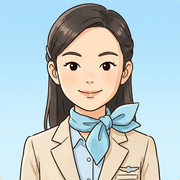
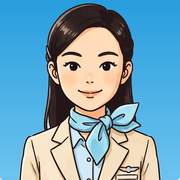
Add files via upload

diff --git a/index.html b/index.html
@@ -12,11 +12,11 @@
 <meta name="apple-mobile-web-app-status-bar-style" content="default">
 <meta name="application-name" content="날아라 아유 보드">
 <title>날아라 아유 보드</title>
-<link rel="manifest" href="./manifest.webmanifest?v=r4">
-<link rel="icon" href="./favicon-48-r4.png" sizes="48x48" type="image/png">
-<link rel="apple-touch-icon" sizes="180x180" href="./apple-touch-icon-r4.png">
-<link rel="apple-touch-icon" href="./apple-touch-icon-r4.png">
-<link rel="apple-touch-icon-precomposed" href="./apple-touch-icon-r4.png">
+<link rel="manifest" href="./manifest.webmanifest?v=r5">
+<link rel="icon" href="./favicon-48-r5.png" sizes="48x48" type="image/png">
+<link rel="apple-touch-icon" sizes="180x180" href="./apple-touch-icon-r5.png">
+<link rel="apple-touch-icon" href="./apple-touch-icon-r5.png">
+<link rel="apple-touch-icon-precomposed" href="./apple-touch-icon-r5.png">
 <style>
 /* 주아 (Jua) · 카카오 작은글씨 — SIL Open Font License 1.1. FONT-LICENSE.txt 참고.
    앱 안의 파일을 먼저 쓰고, 없으면 CDN 으로 넘어간다. */
@@ -582,7 +582,7 @@ footer{font-size:var(--fs-xs);color:var(--ink-3);text-align:center;line-height:1
   <footer>
     달력에서 날짜를 누르면 그날 학습을 보고 고칠 수 있어요.<br>
     기록은 이 기기에 저장돼요. 가끔 백업 파일로 내보내 두세요.<br>
-    <span class="ver">v2026-09-26o</span>
+    <span class="ver">v2026-09-26q</span>
   </footer>
 </div>
 
@@ -1999,7 +1999,7 @@ footer{font-size:var(--fs-xs);color:var(--ink-3);text-align:center;line-height:1
   try{if(navigator.storage&&navigator.storage.persist) navigator.storage.persist();}catch(e){}
 
   /* ---------- 시작 ---------- */
-  $("plane").innerHTML='<img src="./ayu-avatar-r1.png" alt="" width="44" height="44">';   /* 앱 화면 제목 옆 — 아유 */
+  $("plane").innerHTML='<img src="./ayu-avatar-r2.png" alt="" width="44" height="44">';   /* 앱 화면 제목 옆 — 아유 */
   $("gear").innerHTML=icon("gear");
   $("setClose").innerHTML=icon("close");
   $("prev").innerHTML=icon("left");

diff --git a/sw.js b/sw.js
@@ -3,7 +3,7 @@
    아이콘·글꼴은 캐시 우선: 인터넷이 없어도 앱이 그대로 뜬다.
    학습 기록은 캐시가 아니라 localStorage 에 있으므로 캐시를 비워도 사라지지 않는다. */
 
-var VERSION = "ayuboard-2026-09-26o";
+var VERSION = "ayuboard-2026-09-26q";
 var PREFIX = "ayuboard-";
 var SHELL = PREFIX + "shell-" + VERSION;
 
@@ -11,15 +11,15 @@ var SHELL_FILES = [
   "./",
   "./index.html",
   "./manifest.webmanifest",
-  "./manifest.webmanifest?v=r4",
-  "./apple-touch-icon-r4.png",
+  "./manifest.webmanifest?v=r5",
+  "./apple-touch-icon-r5.png",
   "./apple-touch-icon-precomposed.png",
-  "./icon-180-r4.png",
-  "./icon-192-r4.png",
-  "./icon-512-r4.png",
-  "./icon-maskable-512-r4.png",
-  "./favicon-48-r4.png",
-  "./ayu-avatar-r1.png",
+  "./icon-180-r5.png",
+  "./icon-192-r5.png",
+  "./icon-512-r5.png",
+  "./icon-maskable-512-r5.png",
+  "./favicon-48-r5.png",
+  "./ayu-avatar-r2.png",
   "./Jua-Korean.woff2",
   "./KakaoSmallSans-Regular.woff2",
   "./KakaoSmallSans-Bold.woff2"
